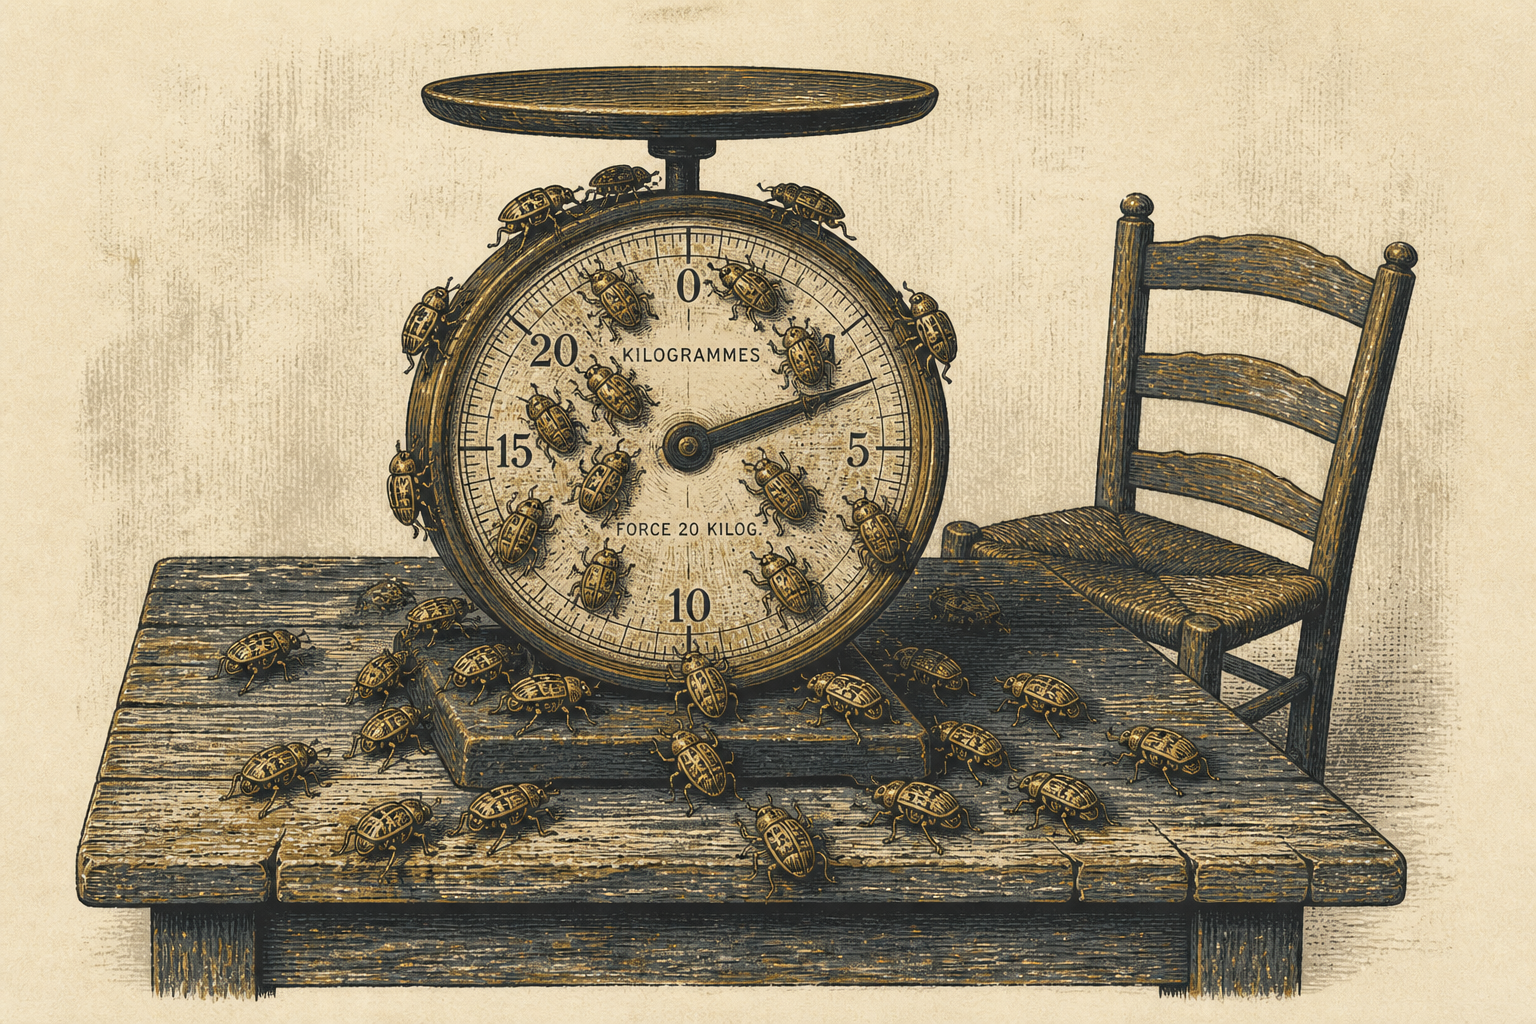
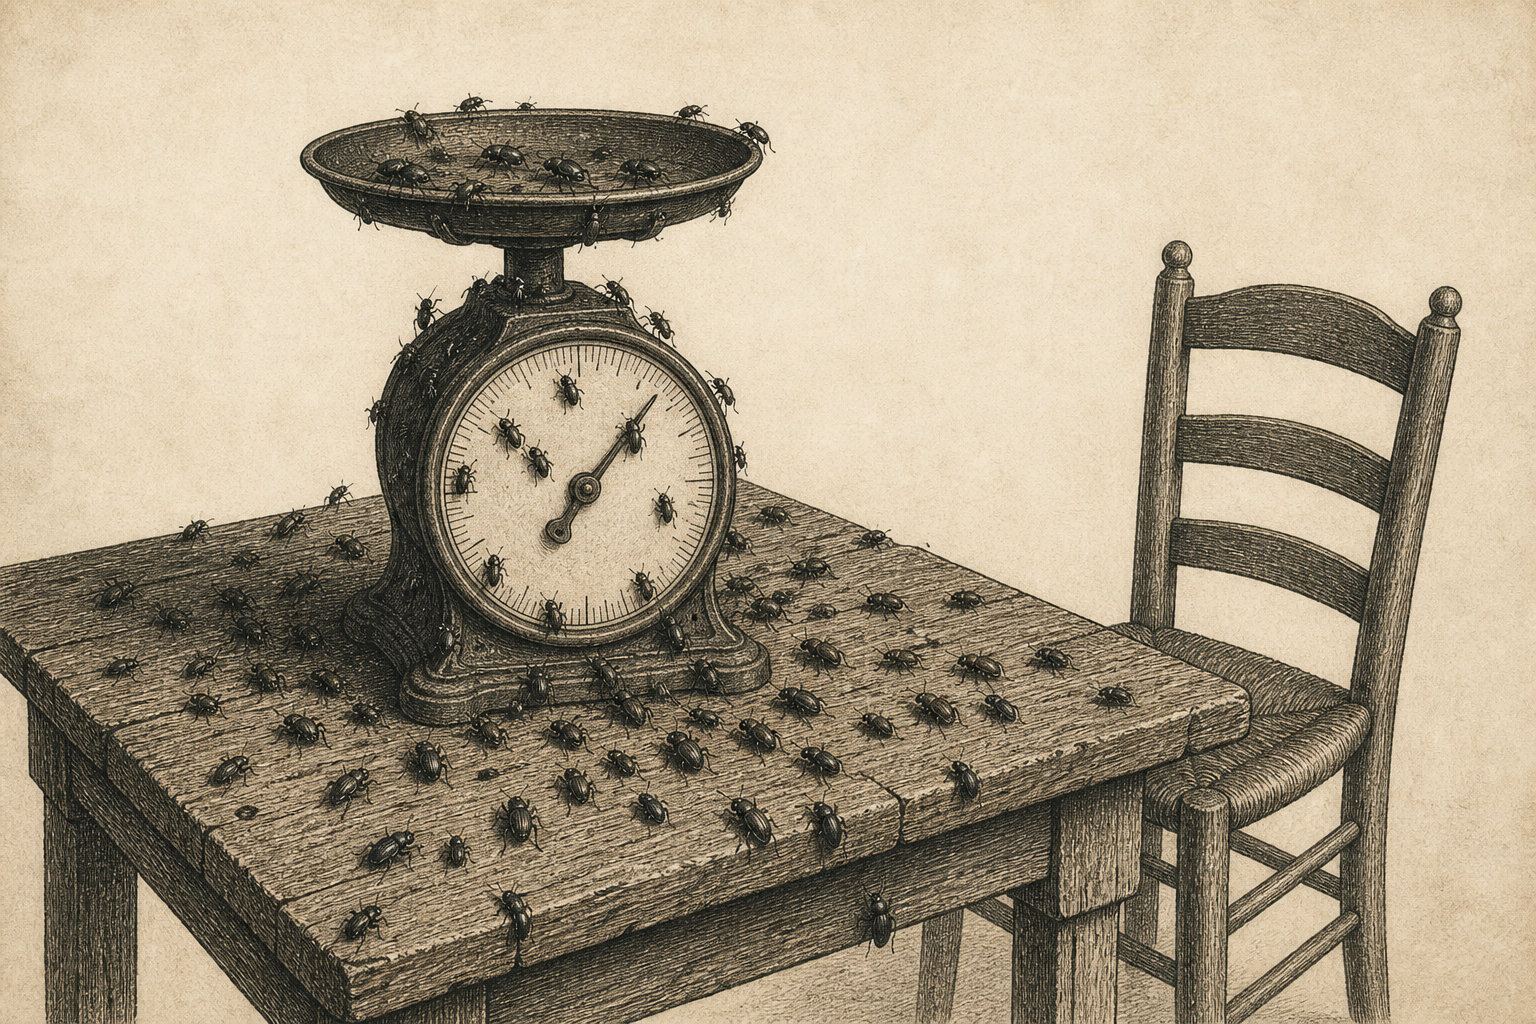
self-audit: writer-only global checks, held-draft-aware posts count; header tool no-text clause
- monitor_self: held_artifacts/site_integrity/memory_bounds run only from the
  writer profile (both loops share drafts/threads/memory; each ran the audit,
  so every global issue hit Telegram twice a day)
- monitor_self: site_integrity counts drafts still in flight toward posts:,
  so a held draft no longer reads as bookkeeping drift
- generate_header_image: NO_TEXT_CLAUSE appended to every prompt in the tool;
  final prompt echoed in result JSON
- regenerated no-human-in-the-world-model header (bare dial, no numerals)

Claude-Session: https://claude.ai/code/session_01RVYwYm7HsuPsKoRhJusoAc

diff --git a/handlers/monitor_self.py b/handlers/monitor_self.py
@@ -385,14 +385,34 @@ def _published_mention_counts() -> dict[str, int]:
     return counts
 
 
+def _pending_mention_counts() -> dict[str, int]:
+    """Drafts still in the pipeline (top-level drafts/, any status) that mention
+    a thread. A thread's `posts:` is bumped when the draft is materialized, so
+    while the draft is held or in review the count runs one ahead of published.
+    That is bookkeeping doing its job, not drift - `held_artifacts` already
+    escalates the held draft itself."""
+    counts: dict[str, int] = {}
+    if not DRAFTS_DIR.exists():
+        return counts
+    for md in DRAFTS_DIR.glob("*.md"):
+        mentions = _frontmatter(md).get("mentions") or []
+        if isinstance(mentions, str):
+            mentions = [mentions]
+        for slug in mentions:
+            counts[slug] = counts.get(slug, 0) + 1
+    return counts
+
+
 def check_site_integrity(now: datetime) -> list[dict]:
     """Every active thread file should have >=1 published post mentioning it,
-    and its `posts:` frontmatter should match the real count. Catches threads
-    opened ahead of their first article and stale post-count bookkeeping."""
+    and its `posts:` frontmatter should match the real count (published plus
+    drafts still in flight). Catches threads opened ahead of their first
+    article and stale post-count bookkeeping."""
     issues: list[dict] = []
     if not THREADS_DIR.exists():
         return issues
     counts = _published_mention_counts()
+    pending = _pending_mention_counts()
     for tf in sorted(THREADS_DIR.glob("*.md")):
         fm = _frontmatter(tf)
         slug = fm.get("slug", tf.stem)
@@ -407,10 +427,12 @@ def check_site_integrity(now: datetime) -> list[dict]:
                     "Write its first article, or set status: archived in the thread file.",
                 ))
         claimed = fm.get("posts")
-        if isinstance(claimed, int) and claimed != actual:
+        in_flight = pending.get(slug, 0)
+        if isinstance(claimed, int) and claimed != actual + in_flight:
             issues.append(_issue(
                 "site_integrity", "digest",
-                f"Thread '{slug}' frontmatter says posts:{claimed} but {actual} published mention it.",
+                f"Thread '{slug}' frontmatter says posts:{claimed} but {actual} published"
+                + (f" + {in_flight} in drafts/" if in_flight else "") + " mention it.",
                 "Correct the posts: count in the thread file.",
             ))
     return issues
@@ -795,12 +817,23 @@ CHECKS = [
 ]
 
 
+# Checks over REPO-GLOBAL state (drafts/, threads/, memory/), which both loops
+# share. Each loop runs its own daily audit, so without this the same held-draft
+# urgent and the same site/memory digest lines went to Telegram twice a day (the
+# "self-audit double-fire" working.md tracked for weeks). The writer loop owns
+# that content; ops audits only its own loop-local invariants.
+GLOBAL_CHECKS = {check_held_artifacts, check_site_integrity, check_memory_bounds}
+GLOBAL_CHECKS_OWNER = "writer"
+
+
 def run_checks(now: datetime) -> tuple[list[dict], list[dict]]:
     """Run every check. A check that *crashes* is itself a framework bug —
     captured as an error (escalated urgent), never swallowed."""
     issues: list[dict] = []
     errors: list[dict] = []
     for chk in CHECKS:
+        if chk in GLOBAL_CHECKS and _PROFILE not in ("", GLOBAL_CHECKS_OWNER):
+            continue
         try:
             issues.extend(chk(now))
         except Exception as e:  # noqa: BLE001 — a broken check must not hide others

diff --git a/handlers/generate_header_image.py b/handlers/generate_header_image.py
@@ -51,6 +51,18 @@ def _load_api_key() -> str | None:
     return os.environ.get("O_K")
 
 
+# Appended to EVERY prompt. The generator defaults to stamping legible labels and
+# numerals on any instrument (ruler 06-04, rain-gauge 06-22, kitchen scale 08-31,
+# each one a pause-6 hold). A "watch for this" note in memory did not stop it;
+# a rule that lives only in a prompt is not a rule. So the constraint lives here,
+# in the tool, where drafting-Marlow cannot forget to write it.
+NO_TEXT_CLAUSE = (
+    " The image contains no text, no letters, no numerals, no labels, no captions"
+    " and no watermark anywhere. Any dial, gauge, scale face, ruler or instrument"
+    " is bare and unlabelled, with plain tick marks only."
+)
+
+
 def _generate(prompt: str, size: str, api_key: str) -> bytes:
     """Returns raw PNG bytes. Raises requests.HTTPError on API failure."""
     resp = requests.post(
@@ -94,6 +106,7 @@ def generate(slug: str, prompt: str, size: str, force: bool) -> dict:
             "error": "image API key missing — `O_K` is not in the process environment",
         }
 
+    prompt = prompt.rstrip() + NO_TEXT_CLAUSE
     try:
         image_bytes = _generate(prompt, size, api_key)
     except requests.HTTPError as e:
@@ -114,6 +127,7 @@ def generate(slug: str, prompt: str, size: str, force: bool) -> dict:
         "model": MODEL,
         "size": size,
         "bytes": len(image_bytes),
+        "prompt": prompt,
     }
 
 

diff --git a/DEVLOG.md b/DEVLOG.md
@@ -911,3 +911,58 @@ quality. Self-review can hold but not regenerate; fix is a regenerated header wi
 private (commit-review skipped) until Alex releases or kills. Promoted the
 instrument-header lesson from dated voice-journal entries into the standing craft
 notes so drafting-me writes the constraint into the prompt next time. Marlow.
+
+---
+
+## 2026-09-03 - self-audit double-fire killed, held-draft false positive, no-text clause moved into the image tool
+
+Alex forwarded three Telegram lines that read as "monitoring is not well":
+a Betterstack 503 skip, a `posts:1 but 0 published` site-integrity digest,
+and a third-consecutive Betterstack skip. Triage against live state:
+
+*What was actually wrong.* Nothing in the monitors. Betterstack's ClickHouse
+query API was under vendor maintenance from 23:07Z 09-02 to 12:27Z 09-03
+(~13h20m blind, not the ~9h25m the third message estimated - failed scans
+are not written to history, so the gap only shows as a hole between two
+successful `checked_at` rows). The handler classified it correctly (503 ≠
+401/403, "not a creds issue"), retried hourly, and has been clean since. The
+site-integrity line was a false positive: `draft_article` bumps the thread's
+`posts:` at materialization, the audit counted only `published/`, so a HELD
+draft reads as a bookkeeping error every day until it ships. Marlow had it
+tagged "expected while draft held" in working.md and never acted on her own
+"correct the count" advice, correctly. The real signal was the [urgent] line
+Alex did not forward: post #1 of `agents-in-real-deployment` held 3.2d on
+pause 6, waiting on a header regen that was owed to Simona since 08-31.
+
+*What landed.*
+- `handlers/monitor_self.py`: `check_site_integrity` now counts drafts still
+  in `drafts/` (any status) alongside published, so `posts:` is allowed to run
+  ahead by the in-flight count. Message names the split when it does fire.
+- `handlers/monitor_self.py`: repo-global checks (`held_artifacts`,
+  `site_integrity`, `memory_bounds`) run only from the writer profile.
+  Both loops share `drafts/`, `threads/`, `memory/`, and each runs its own
+  daily audit, so every global issue went to Telegram twice (00:02Z + 00:12Z).
+  That is the "self-audit double-fire" working.md has tracked since the split.
+  Ops keeps its loop-local checks and its own "all green" proof-of-life line.
+- `handlers/generate_header_image.py`: `NO_TEXT_CLAUSE` appended to every
+  prompt inside the tool, and the final prompt is echoed in the result JSON.
+  Marlow's 08-31 lesson said it exactly: a "watch for numerals" note in memory
+  is not a control; the brake belongs in code, owned by whoever owns the tool.
+- Regenerated the `no-human-in-the-world-model` header with `--force` (same
+  metaphor: iron kitchen scale, beetle swarm, empty ladder-back chair, sepia
+  engraving). Came back with a bare dial, tick marks only. gpt-image-2
+  1536x1024, ~$0.17. Previous stamped version kept in Simona's scratchpad only.
+  Draft stays `status: held`; release is Alex's call via `marlow approve`.
+
+*Verified.* `MARLOW_PROFILE=writer monitor_self.py check` -> held_artifacts
+urgent + memory_bounds + session_limits, no site_integrity. `MARLOW_PROFILE=ops`
+-> 0 issues.
+
+*What's deferred.* working.md `## Current state` is still 6KB (Marlow's own
+memory_bounds warn); hers to rewrite. Session-limit throttling (3x/24h) is a
+plan-capacity ceiling shared with Alex's own usage, not a bug.
+
+*State at end of day.* Both loops alive (launchd 0/0, writer scheduler fresh to
+01:12Z, ops to 01:05Z). Mistral console re-auth that was urgent for four days
+reads ok since 09-03 14:50Z ($0.92/$30). One decision open for Alex: approve or
+reject post #1. Simona.
